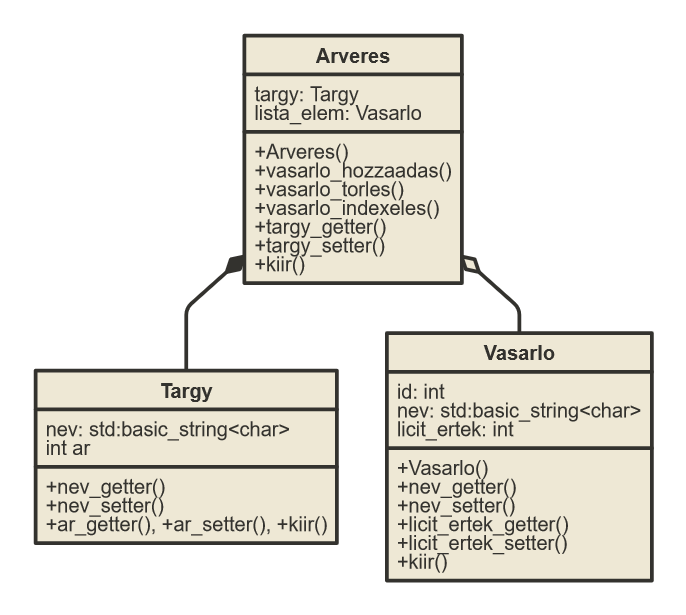
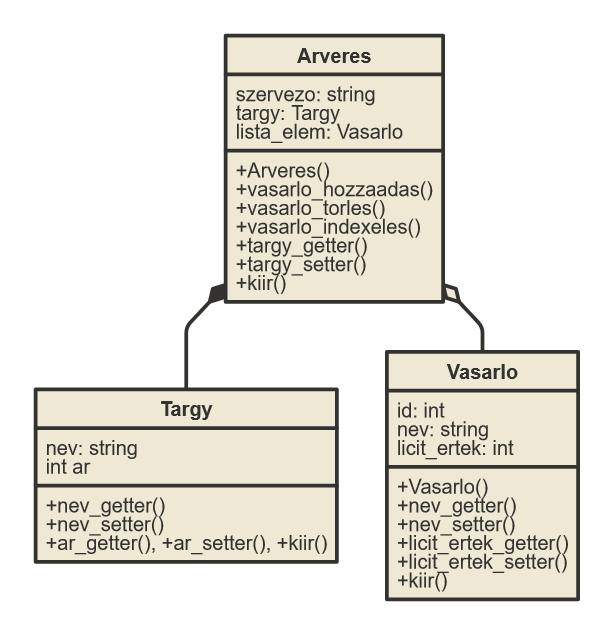
.h fájlok

Changed region(s): [[0.031, 0.0309, 0.9624, 0.9577]]

diff --git a/Arveres.h b/Arveres.h
@@ -1,0 +1,52 @@
+//
+// Created by Zsombor on 2022. 03. 24..
+//
+
+#ifndef PROG2_HF_ARVERES_H
+#define PROG2_HF_ARVERES_H
+
+#include <iostream>
+#include "Targy.h"
+#include "Vasarlo.h"
+
+class Arveres {
+    std::string szervezo;
+    Targy targy;
+    Vasarlo *lista_elem;
+
+public:
+    Arveres(std::string& sz, Targy& t, Vasarlo* v = nullptr) : szervezo(sz), targy(t), lista_elem(v) {};
+
+    std::string & get_szervezo() { return szervezo; }
+
+    const std::string & get_szervezo() const { return szervezo; }
+
+    Targy & get_targy() { return targy; }
+
+    const Targy & get_targy() const { return targy; }
+
+    Vasarlo & operator[](int index);
+
+    const Vasarlo & operator[](int index) const;
+
+    std::ostream & kiir(std::ostream & os);
+
+    Arveres operator+(Vasarlo& rhs_v);
+
+    Arveres operator+(Arveres& rhs_a);
+
+    Arveres operator-(Vasarlo& rhs_v);
+
+    Arveres operator-(Arveres& rhs_a);
+
+    Arveres& operator+=(Vasarlo& rhs_v);
+
+    Arveres& operator+=(Arveres& rhs_a);
+
+    Arveres& operator-=(Vasarlo& rhs_v);
+
+    Arveres& operator-=(Arveres& rhs_a);
+};
+
+
+#endif //PROG2_HF_ARVERES_H

diff --git a/Vasarlo.h b/Vasarlo.h
@@ -1,0 +1,30 @@
+//
+// Created by Zsombor on 2022. 03. 24..
+//
+
+#ifndef PROG2_HF_VASARLO_H
+#define PROG2_HF_VASARLO_H
+
+#include <iostream>
+
+class Vasarlo {
+    int id{};
+    std::string nev;
+    int licit_ertek;
+
+public:
+    Vasarlo(std::string& n, int l = 0) : nev(n), licit_ertek(l) {};
+
+    std::string & get_nev() { return nev; }
+
+    const std::string & get_nev() const { return nev; }
+
+    int & get_licit_ertek() { return licit_ertek; }
+
+    const int & get_licit_ertek() const { return licit_ertek; }
+
+    std::ostream & kiir(std::ostream & os);
+};
+
+
+#endif //PROG2_HF_VASARLO_H

diff --git a/Targy.h b/Targy.h
@@ -1,0 +1,29 @@
+//
+// Created by Zsombor on 2022. 03. 24..
+//
+
+#ifndef PROG2_HF_TARGY_H
+#define PROG2_HF_TARGY_H
+
+#include <iostream>
+
+class Targy {
+    std::string nev;
+    int ar;
+
+public:
+    Targy(std::string& n, int a = 0) : nev(n), ar(a) {};
+
+    std::string & get_nev() { return nev; }
+
+    const std::string & get_nev() const { return nev; }
+
+    int & get_licit_ertek() { return ar; }
+
+    const int & get_licit_ertek() const { return ar; }
+
+    std::ostream & kiir(std::ostream & os);
+};
+
+
+#endif //PROG2_HF_TARGY_H

diff --git a/Arveres.cpp b/Arveres.cpp
@@ -1,0 +1,5 @@
+//
+// Created by Zsombor on 2022. 03. 24..
+//
+
+#include "Arveres.h"

diff --git a/Vasarlo.cpp b/Vasarlo.cpp
@@ -1,0 +1,5 @@
+//
+// Created by Zsombor on 2022. 03. 24..
+//
+
+#include "Vasarlo.h"

diff --git a/Targy.cpp b/Targy.cpp
@@ -1,0 +1,5 @@
+//
+// Created by Zsombor on 2022. 03. 24..
+//
+
+#include "Targy.h"

diff --git a/specifikáció.md b/specifikáció.md
@@ -1,21 +1,17 @@
 # Specifikáció
 
-## A program működése
+## Feladat
 
-Lesz egy árverés objektum, amihez tartozik pontosan egy tárgy és tetszőleges számú vásárló. Ezen az objektumon keresztül lehet majd elindítani az árverést. Ha elindul az árverés a szervező kikiált egy kezdő árat. Ezután végigmegyek a vásárlókon és véletlenszerűen licitálnak, illetve nem licitálnak. Ha egyik vásárló sem licitál már, kiírom a nyertes vásárló nevét.
+Egy digitális árverés szimulálása. Egy tárgyat lehet elárverezni vásárló-botok segitségével. Minden vásárló véletlenszerűen licitál az adott tárgyra. A szimuláció addig fut, amig van legalább 2 licitáló, ezután aki az utolsó licitet tette, megnyeri a tárgyat az adott áron. Nem lehet túl kevés vásárlóval elinditani az árverést.
 
-## Objektumok
+## Árverés
 
-### Árverés
+Lehessen egy árveréshez tárgyat, vásárlókat és szervezőt hozzáadni. Ezeket bármikor lehet változtatni. Az utóbbit csak név alapján. Ha bármelyik hiányzik nem lehet az árverést elinditani. Hozzá lehet egysével, de teljes listaként is adni a vásárlókat. Értékek nélkül is létre lehet hozni, de ilyenkor utólag kell mindent megadni, nincsenek alapértékei.
 
-Van tárggya, vásárlói. Hozzá lehet adni szervezőt, tárgyat, vásárlókat. El lehet indítani. A vásárlók láncolt listában vannak tárolva.
+## Vásárló
 
-### Vásárló
+Van neve és licit értéke, amilyen eséllyel tud licitálni egy tárgyra. Név nélkül nem lehet létrehozni, de van alap licit értéke.
 
-Van neve, értéke, amilyen eséllyel licitál egy tárgyra.
+## Tárgy
 
-### Tárgy
-
-Van neve, kezdőértéke.
-
-Minden funkcióját az objektumoknak operator overloadinggal akarom megoldani. Pl: Vásárló hozzáadása az árveréshez az operator+-szal történik. Tesztprogrammal fogom ellenőrizni a helyes működést.
+Van neve és kezdőértéke, amiről indul a licitálása. Név nélkül nem lehet létrehozni, de van alap licit értéke.

diff --git a/terv.md b/terv.md
@@ -6,12 +6,11 @@
 
 ```c++
 class Arveres {
+    string szervezo;
     Targy targy;
     Vasarlo *lista_elem;
     
 public:
-    Arveres(Vasarlo v = NULL, Targy t = NULL);
-    
     Arveres(Vasarlo *v, Targy t = NULL);
     
     void operator+();
@@ -26,6 +25,10 @@ public:
     
     const Targy& targy() const;
     
+    string& szervezo();
+    
+    const string& szervezo() const;
+    
     ostream& kiir(ostream& os);
 };
 ```
@@ -35,13 +38,13 @@ public:
 ```c++
 class Vasarlo {
     int id;
-    std:basic_string<char> nev;
+    string nev;
     int licit_ertek;
     
 public:
-    std:basic_string<char>& nev();
+    string& nev();
     
-    const std:basic_string<char>& nev() const;
+    const string& nev() const;
     
     int& licit_ertek();
     
@@ -55,13 +58,13 @@ public:
 
 ```c++
 class Targy {
-    std:basic_string<char> nev;
+    string nev;
     int ar;
     
 public:
-    std:basic_string<char>& nev();
+    string& nev();
     
-    const std:basic_string<char>& nev() const;
+    const string& nev() const;
     
     int& ar();
     

diff --git a/pontos_spec.md b/pontos_spec.md
@@ -6,7 +6,7 @@
 
 #### Tulajdonságok
 
-Tárgy, VásárlóLista
+Szervező, Tárgy, VásárlóLista
 
 #### Public Funkciók
 
@@ -18,13 +18,15 @@ vásárló indexelés [] : Ha egy Árverés objektumot indexelünk a VásárlóL
 
 tárgy hozzáadás : Getter és Setter.
 
+szervező hozzáadás : Getter és Setter.
+
 kiir : Elinditja az árverést.
 
 ### Vásárló
 
 #### Tulajdonságok
 
-Id: Az adott árverésben lévő száma, mivel több embernek is ugyanaz lehet a neve.
+Id: Az adott árverésben lévők száma, mivel több embernek is ugyanaz lehet a neve.
 Név: Fix hosszú char tömb.
 LicitÉrték: A licitáláskor vett random számban játszik szerepet.
 
